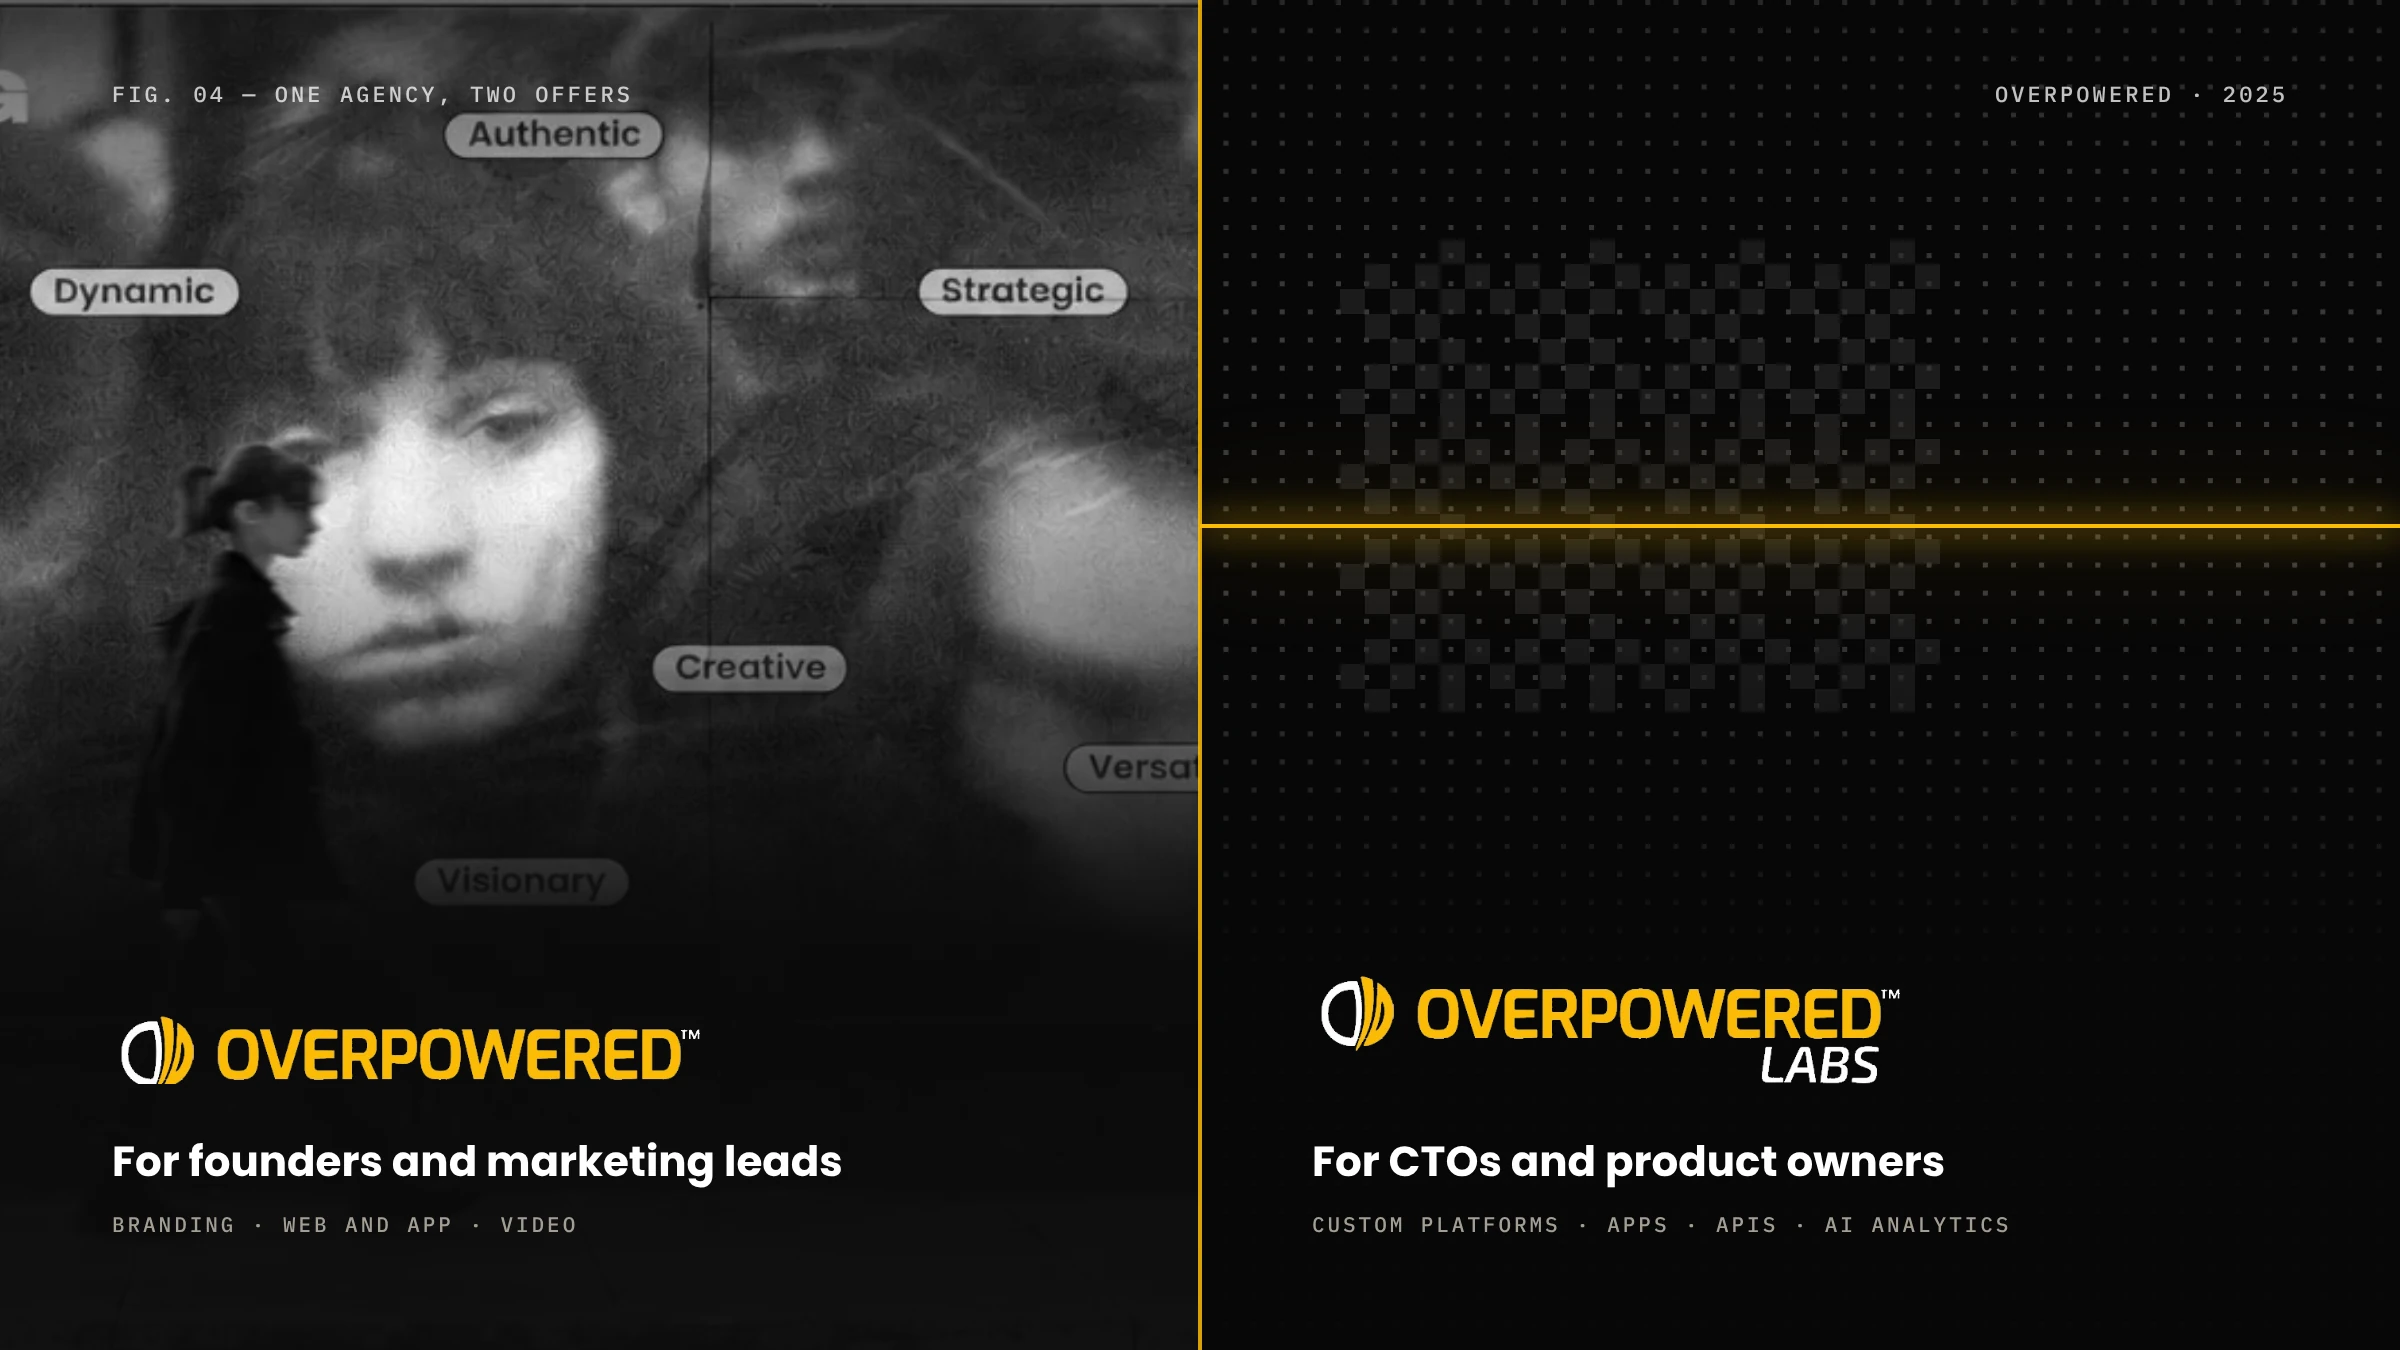
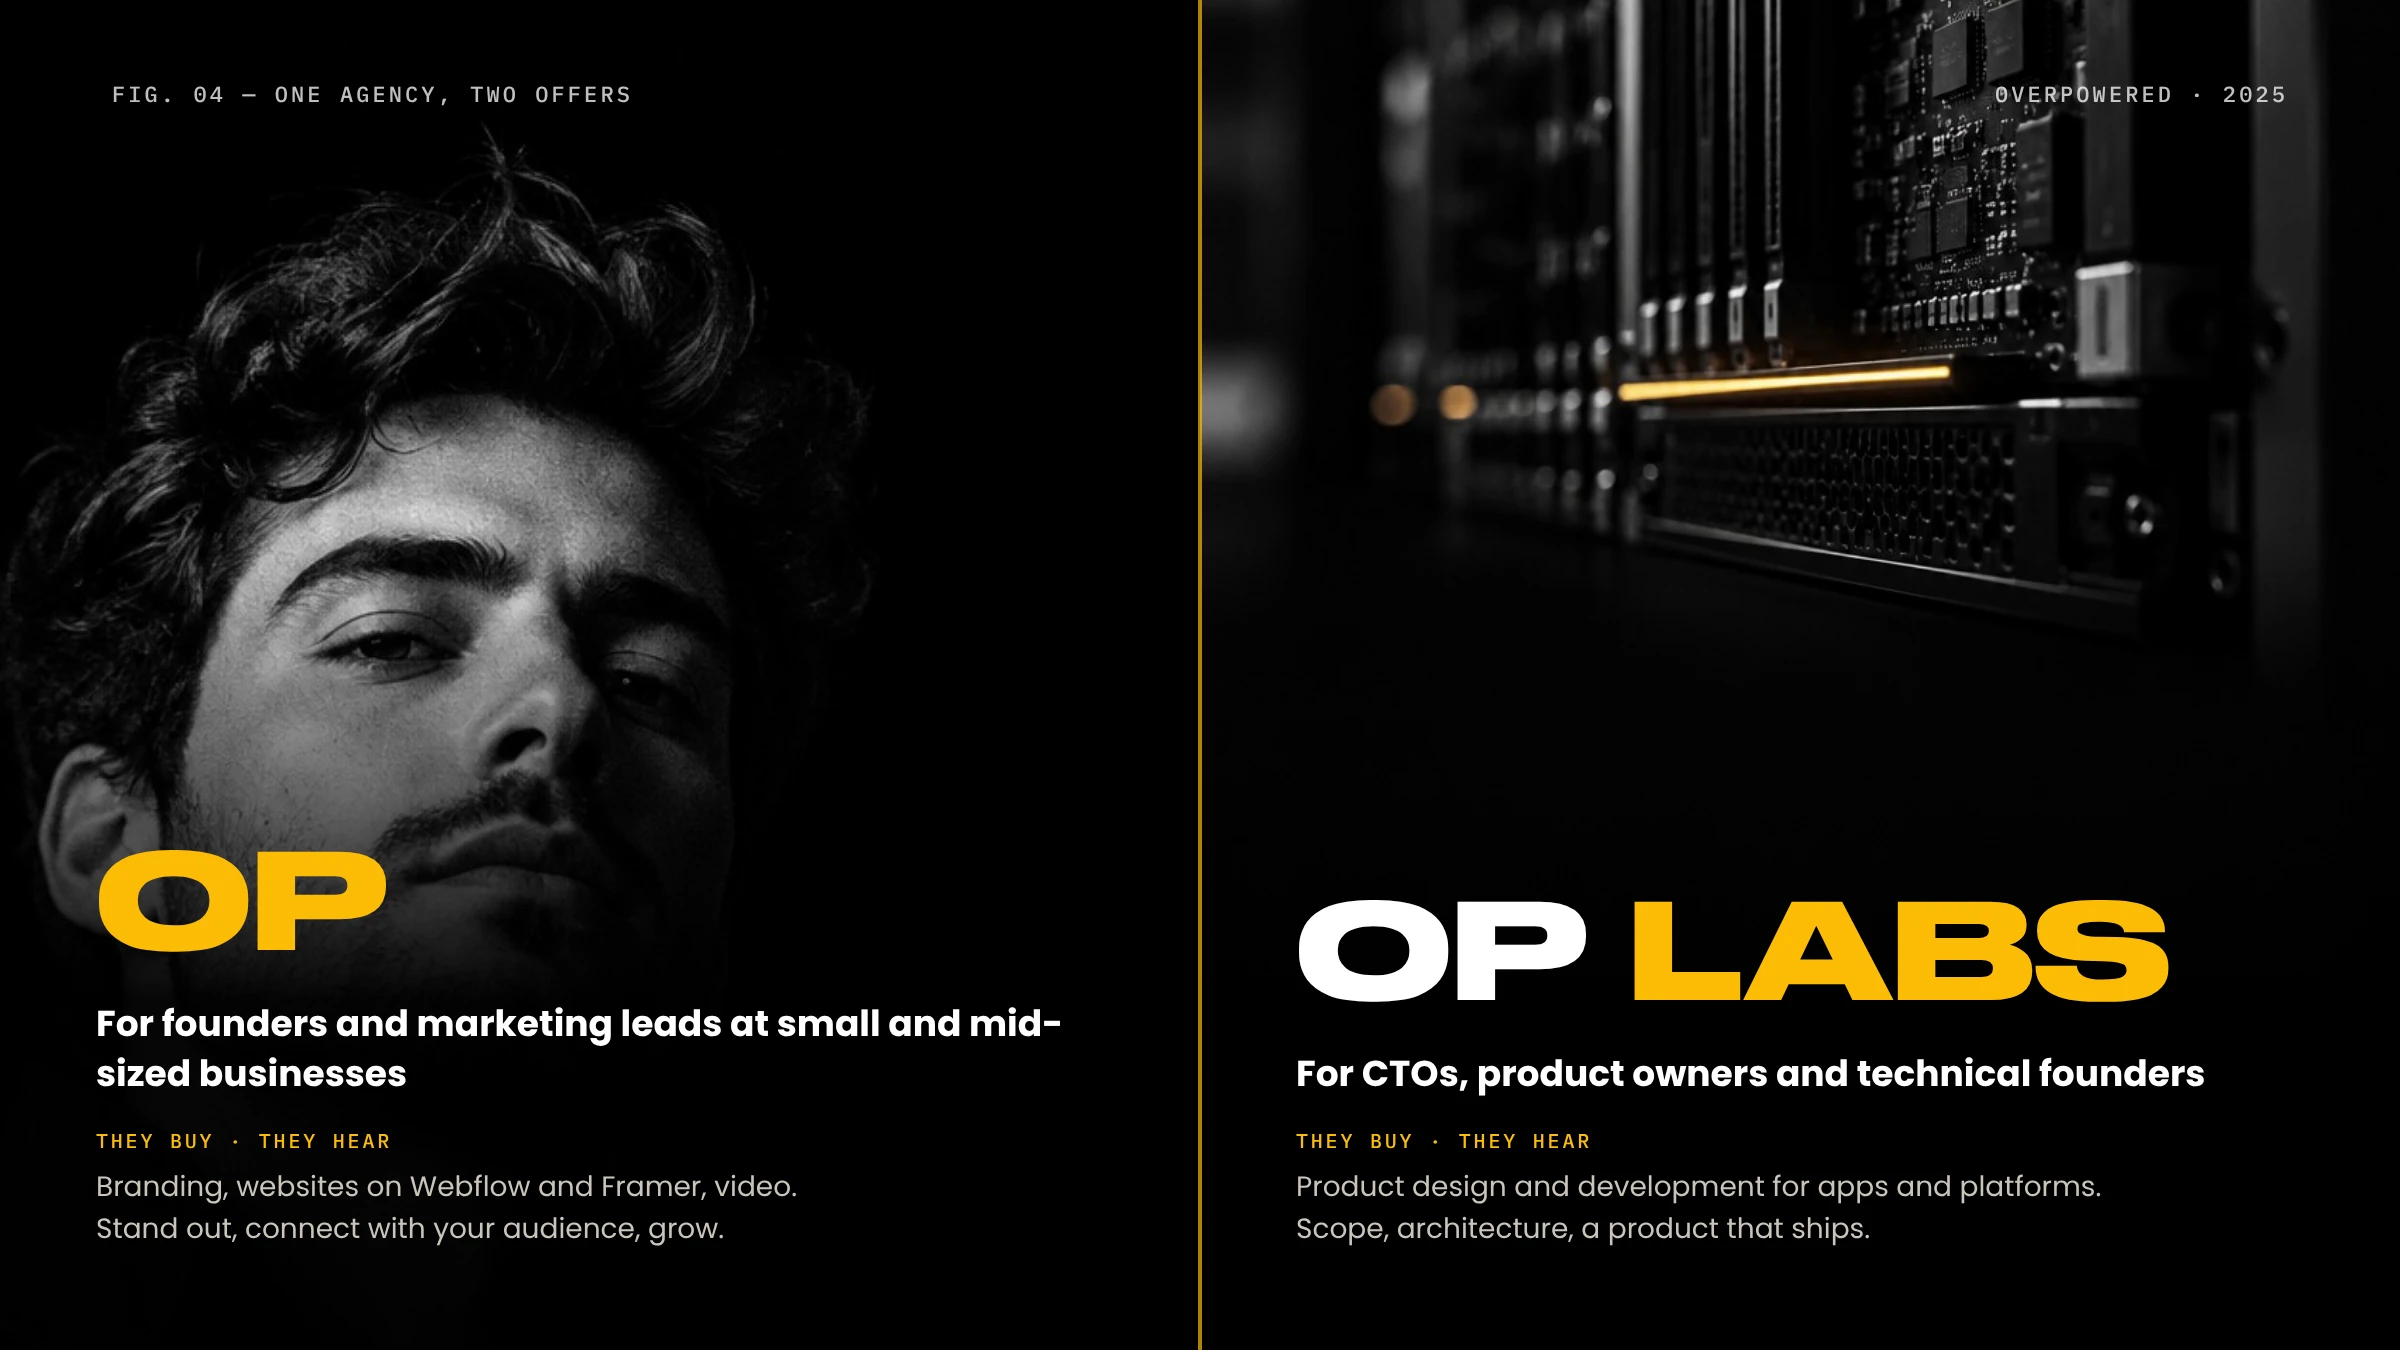
Overpowered figures, round 3: Druk Wide, person and machine offers, brand board, repaired social posts
Claude-Session: https://claude.ai/code/session_0137XXpZA3jAMF7ZDAPuorpn

diff --git a/lib/projects.ts b/lib/projects.ts
@@ -138,7 +138,7 @@ export const caseStudies: CaseStudy[] = [
           tp("I wrote a hiring exercise around a premium olive-oil brand built on Arabic calligraphy. It gave candidates a real brief to interpret and gave us something concrete to discuss: their thinking, their craft and how they took feedback."),
         ],
         figures: [
-          { images: [{ src: "/images/op-fig-06-v6.webp", alt: tp("Team: 25 people across five disciplines, with the Creative Director under the CEO, two art directors, UX/UI run directly and copy shared with the CEO") }], caption: tp("Team structure. Roles only.") },
+          { images: [{ src: "/images/op-fig-06-v6.webp", alt: tp("Team: 25 people across five disciplines. Under the CEO and the Creative Director, an art director for branding, an art director for video, 2D and 3D, and UX/UI run directly, with copy shared with the CEO") }], caption: tp("Team structure. Roles only.") },
         ],
       },
       {
@@ -148,9 +148,6 @@ export const caseStudies: CaseStudy[] = [
           tp("Designers reviewed work with their art directors every day or two, and I reviewed it with the art directors each week. In reviews, designers explained their decisions before anyone else weighed in. When notes weren’t enough, I sat with the designer, opened the file and worked through the options together."),
           tp("I wanted the team to understand why a solution worked, not change things because I had asked."),
         ],
-        figures: [
-          { images: [{ src: "/images/op-fig-reviews-v1.webp", alt: tp("Four review notes: every typeface has to earn its place, no lorem ipsum or placeholder names, design for the business not the mockup library, and show the two routes the client turned down") }], caption: tp("Notes from my review of the agency’s case studies.") },
-        ],
       },
       {
         label: "A clearer offer",
@@ -159,7 +156,7 @@ export const caseStudies: CaseStudy[] = [
           tp("Product work needed its own conversation. A CTO buying a digital product has different priorities from a marketing lead commissioning a campaign, so we set up OP Labs as a separate offer. When SPLT came to us, I reshaped its brief into a staged product engagement and led the product design."),
         ],
         figures: [
-          { images: [{ src: "/images/op-fig-03-v4.webp", alt: tp("Two offers: the Overpowered lock-up over a street billboard for founders and marketing leads, and the OP Labs lock-up over a technical grid for CTOs and product owners") }], caption: tp("One agency, two offers.") },
+          { images: [{ src: "/images/op-fig-03-v4.webp", alt: tp("Two offers: OP, over a black-and-white portrait, for founders and marketing leads, and OP Labs, over a server rack lit by one amber line, for CTOs and product owners") }], caption: tp("One agency, two offers.") },
         ],
       },
       {
@@ -170,9 +167,9 @@ export const caseStudies: CaseStudy[] = [
           tp("We tested elements in small Instagram campaigns in the UAE, the UK and Egypt before committing. The agency went on to use the identity for about a year."),
         ],
         figures: [
-          { images: [{ src: "/images/op-fig-09-v3.webp", alt: tp("Pages from the January 2025 brand guidelines: logomark, logo variations, OP Labs lock-up, colour, type and pattern") }], caption: tp("From the January 2025 brand guidelines.") },
+          { images: [{ src: "/images/op-fig-09-v3.webp", alt: tp("The identity system from the January 2025 guidelines: the primary and OP Labs lock-ups, six logo variations, the mark, Druk Wide Bold and the palette") }], caption: tp("From the January 2025 brand guidelines.") },
           { images: [{ src: "/images/op-billboard-v1.webp", alt: tp("Billboard: Transforming ideas into impactful designs, over a grainy black-and-white crowd with yellow value tags"), ratio: "1296 / 768" }] },
-          { images: [{ src: "/images/op-social-1-v1.webp", alt: tp("Social post: When science and design collaborate"), ratio: "4 / 5" }, { src: "/images/op-social-2-v1.webp", alt: tp("Social post: Pushing boundaries"), ratio: "4 / 5" }, { src: "/images/op-social-3-v1.webp", alt: tp("Social post: Top notch design solutions"), ratio: "4 / 5" }], caption: tp("The identity in use, outdoors and on social media.") },
+          { images: [{ src: "/images/op-social-1-v2.webp", alt: tp("Social post: When science and design collaborate"), ratio: "4 / 5" }, { src: "/images/op-social-2-v2.webp", alt: tp("Social post: Pushing boundaries"), ratio: "4 / 5" }, { src: "/images/op-social-3-v2.webp", alt: tp("Social post: Top notch design solutions"), ratio: "4 / 5" }], caption: tp("The identity in use, outdoors and on social media.") },
         ],
       },
       {
